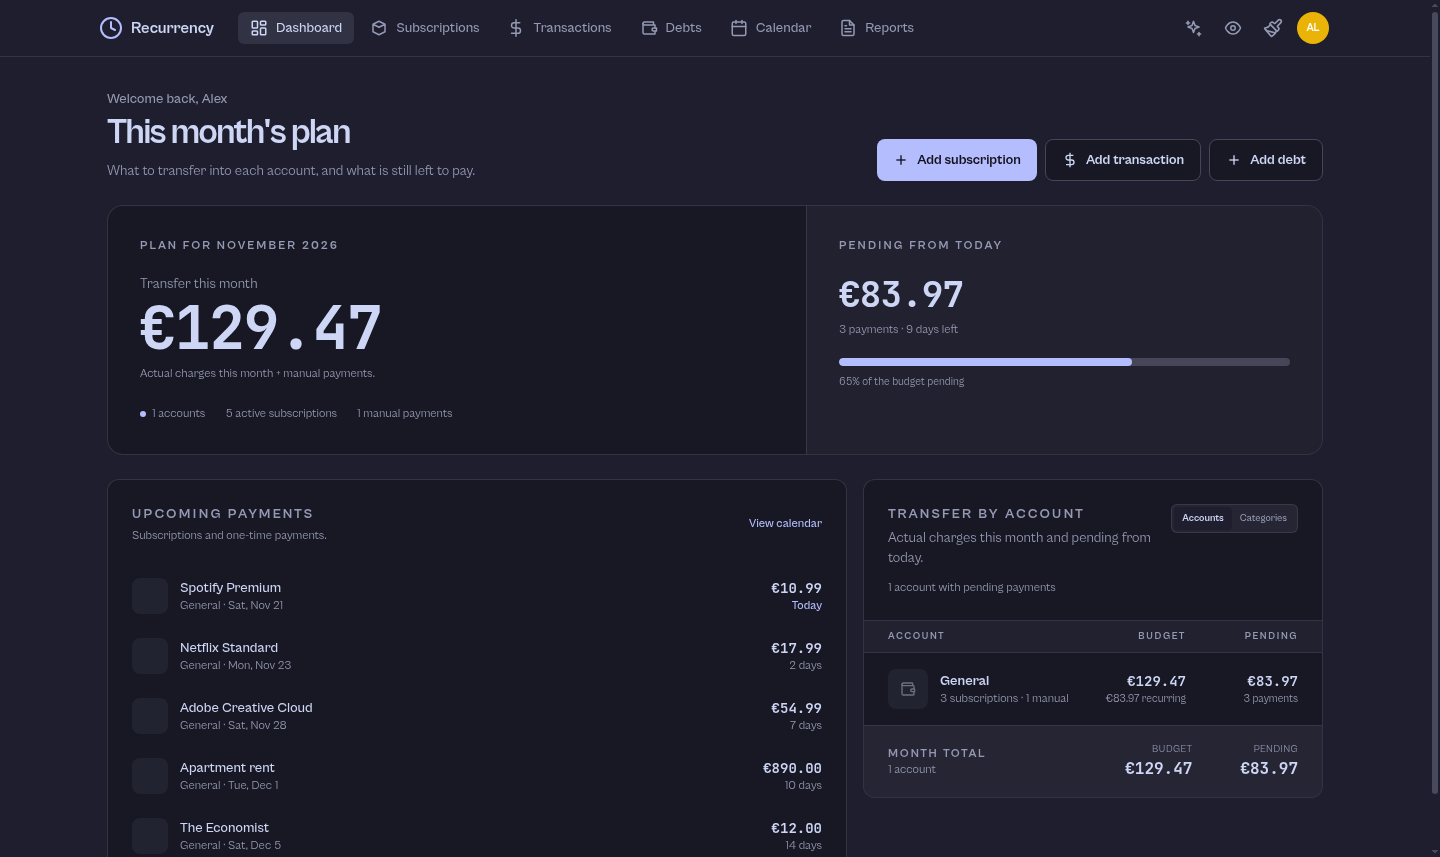
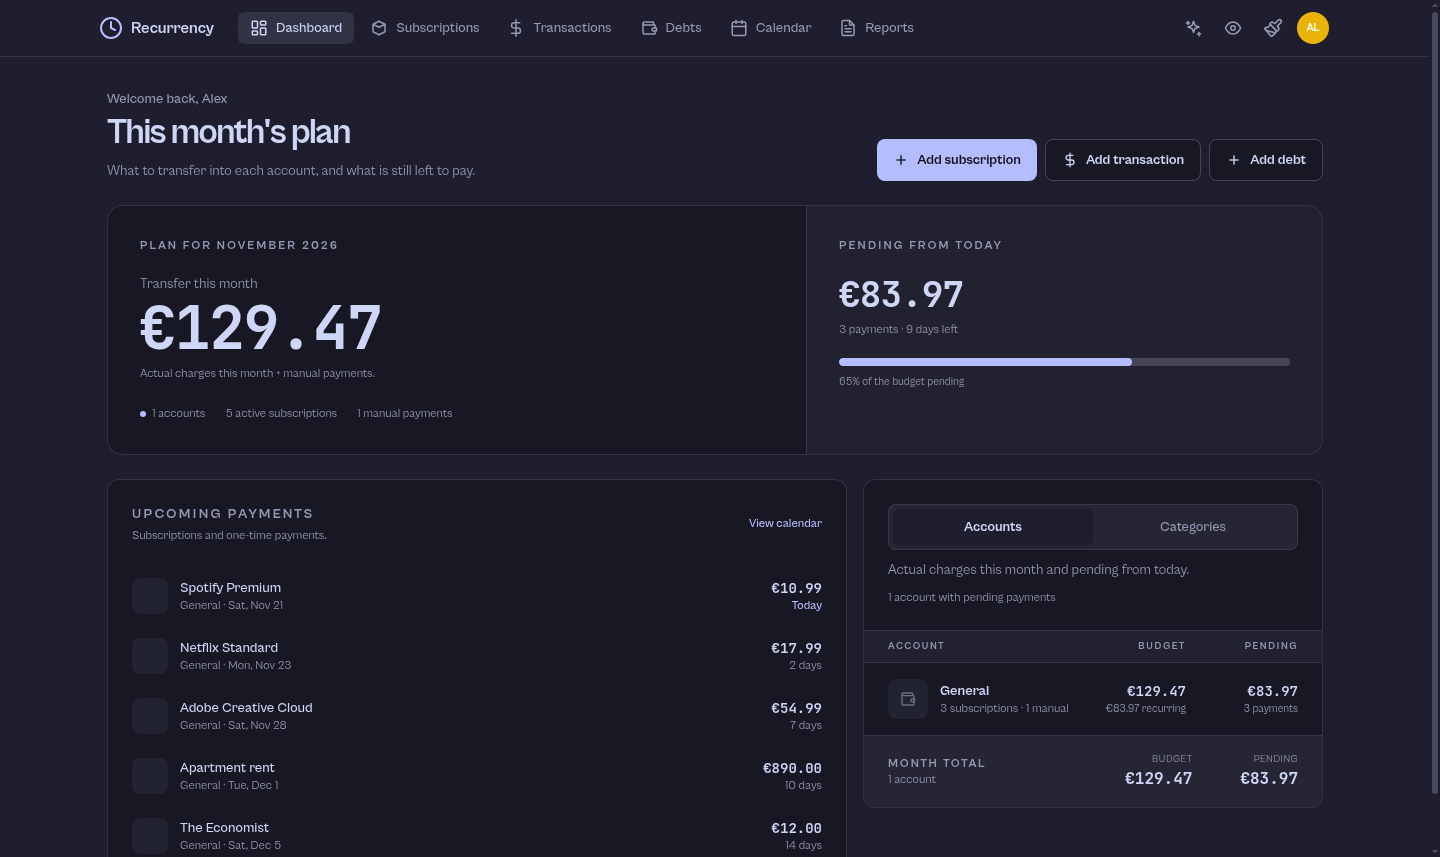
docs(dashboard): refresh captures for the ledger title tabs

diff --git a/DESIGN.md b/DESIGN.md
@@ -272,11 +272,11 @@ from a CDN. The loader waits for the critical faces before revealing the app.
    - pending from today, payment count, days left, progress bar.
 3. **Upcoming payments** — the next five subscriptions and future one-time
    transactions, merged into one chronological list on the left.
-4. **Transfer ledger** — on the right, switchable between **Accounts** (default)
-   and **Categories**. Accounts show budget and pending per account; categories
-   show this month's charges and pending grouped by category. Both use a
-   month-total footer. Hovering a payment highlights its account row, and
-   hovering an account highlights its payments.
+4. **Transfer ledger** — on the right, with the large **Accounts** / **Categories**
+   segmented control acting as the section title. Accounts is the default;
+   categories show this month's charges and pending grouped by category. Both
+   use the same table language and a month-total footer. Hovering a payment
+   highlights its account row, and hovering an account highlights its payments.
 
 The per-account row is the core unit. It shows account identity, subscription
 and manual counts, budget, recurring share and pending state. Amounts stay in a
@@ -479,7 +479,7 @@ except inside explicitly scrollable tab strips.
 - Actions use sentence case: `Add subscription`, `Save changes`, `View all`.
 - Micro labels may be uppercase with tracking.
 - Prefer concrete nouns: `Transfer this month`, `Pending from today`,
-  `Upcoming payments`, `Transfer by account`, `Pending from today`.
+  `Upcoming payments`, `Accounts / Categories`, `Pending from today`.
 - Empty states explain what will appear and how to create it.
 - Errors are short and generic. Never mention a specific browser, internal URL,
   raw SQL error or stack trace.
